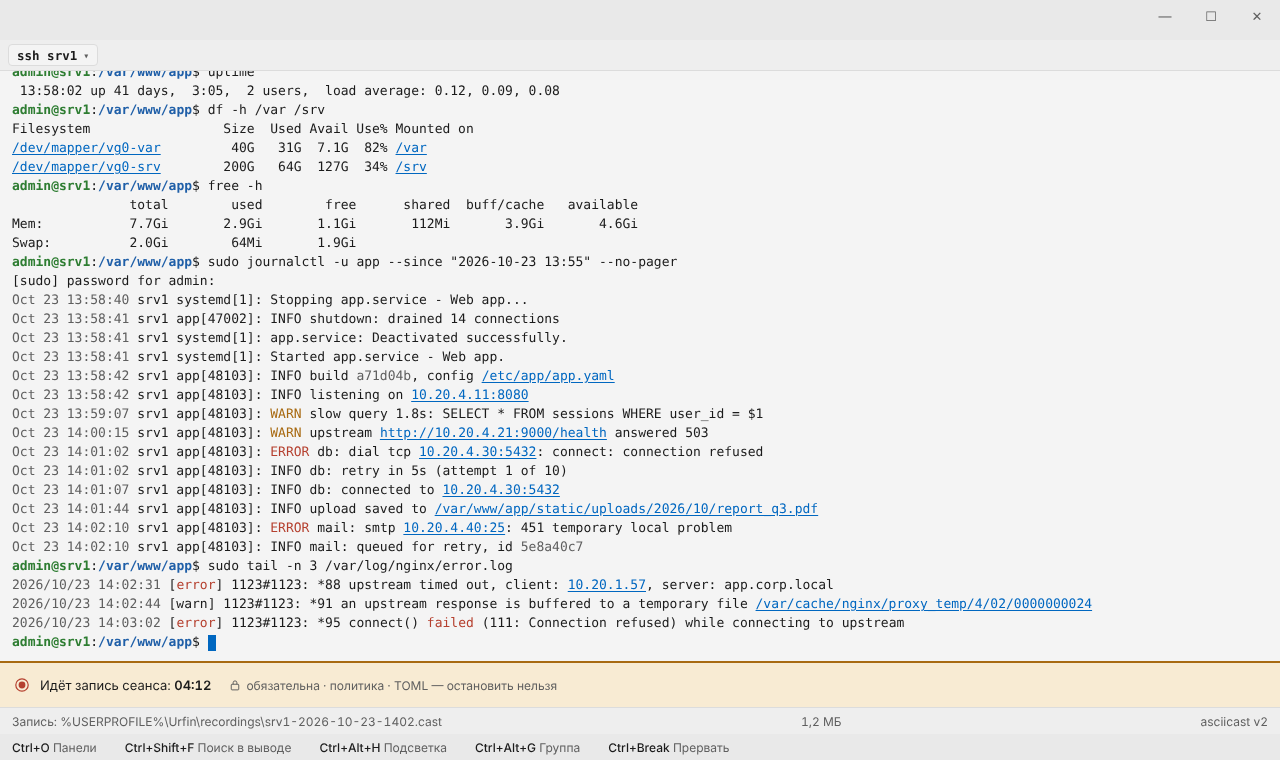
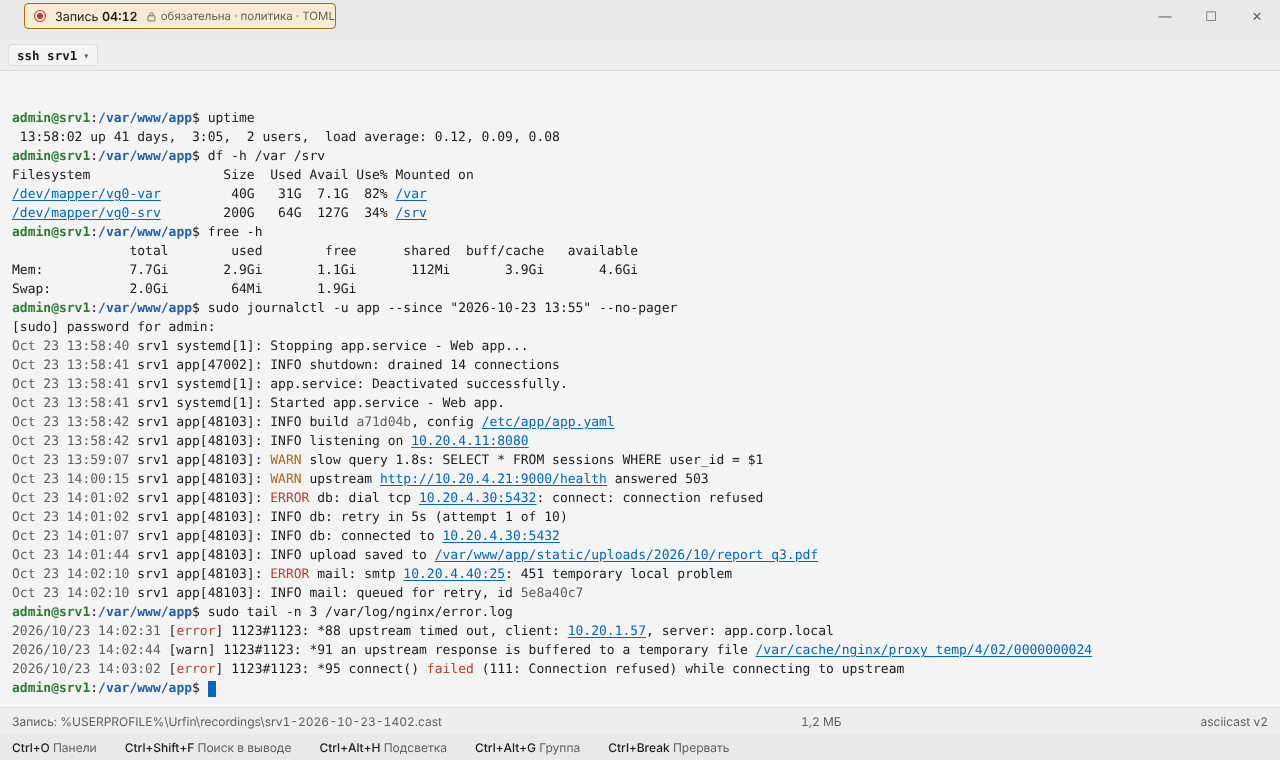
design: session state (multi-exec, recording) as chips in the empty title bar — terminal is not shifted
Claude-Session: https://claude.ai/code/session_013ZpcYnbJMYkHW4aMDDmFTq

diff --git a/docs/design/window.dc.html b/docs/design/window.dc.html
@@ -70,6 +70,16 @@ body{margin:0}
 <button type="button" aria-label="Новая вкладка" style="flex: none; height: 32px; padding: 0 12px; border: 0; background: transparent; color: {{t.s}}; font: inherit">+</button>
 </div>
 </sc-if>
+<sc-if value="{{stTitleOn}}" hint-placeholder-val="{{ false }}">
+<div role="group" aria-label="Состояние сеанса" style="align-self: flex-start; height: 32px; display: flex; align-items: center; gap: 8px; padding-left: 12px">
+<sc-if value="{{stMulti}}" hint-placeholder-val="{{ false }}">
+<span role="alert" style="{{stChip}}"><span style="display: inline-flex; color: {{t.rem}}"><svg width="14" height="14" viewBox="0 0 16 16" aria-hidden="true"><path d="M8 1.8l6.5 12H1.5z" fill="none" stroke="currentColor" stroke-width="1.2" stroke-linejoin="round"></path><path d="M8 6.2v3.6" stroke="currentColor" stroke-width="1.4"></path><circle cx="8" cy="11.8" r="0.8" fill="currentColor"></circle></svg></span><span>Ввод в 3 сеанса: <span style="font-weight: 600">srv1, srv2, srv3</span></span><button type="button" style="{{stChipBtn}}">Выйти <span style="color: {{t.s}}; font-size: 11px">Esc</span></button></span>
+</sc-if>
+<sc-if value="{{stRec}}" hint-placeholder-val="{{ false }}">
+<span role="status" aria-label="Идёт запись сеанса, 4 мин 12 с" style="{{stChip}}"><span style="display: inline-flex; color: {{t.k}}"><svg width="14" height="14" viewBox="0 0 16 16" aria-hidden="true"><circle cx="8" cy="8" r="6.2" fill="none" stroke="currentColor" stroke-width="1.2"></circle><circle cx="8" cy="8" r="3.4" fill="currentColor"></circle></svg></span><span>Запись <span style="font-weight: 600">04:12</span></span><span style="display: inline-flex; align-items: center; gap: 4px; color: {{t.s}}; font-size: 11.5px"><svg width="11" height="11" viewBox="0 0 16 16" aria-label="Задано политикой организации"><rect x="3" y="7" width="10" height="7.5" rx="1" fill="none" stroke="currentColor" stroke-width="1.3"></rect><path d="M5.5 7V5a2.5 2.5 0 0 1 5 0v2" fill="none" stroke="currentColor" stroke-width="1.3"></path></svg>обязательна · политика · TOML</span></span>
+</sc-if>
+</div>
+</sc-if>
 <div style="margin-left: auto; flex: none; align-self: flex-start; display: flex; align-items: center">
 <sc-if value="{{ctx.on}}" hint-placeholder-val="{{ false }}">
 <span style="margin-right: 12px; padding: 2px 8px; border: 1px solid {{ctx.color}}; border-radius: 4px; color: {{ctx.color}}; font-size: 12px">{{ctx.label}}</span>
@@ -109,20 +119,6 @@ body{margin:0}
 <sc-for list="{{stLines}}" as="ln" hint-placeholder-count="20"><div style="{{ln.st}}"><sc-for list="{{ln.g}}" as="sg" hint-placeholder-count="3"><span style="{{sg.s}}">{{sg.x}}</span></sc-for></div></sc-for>
 </div>
 </div>
-<sc-if value="{{stMulti}}" hint-placeholder-val="{{ false }}">
-<div role="alert" style="{{stWarn}}">
-<span style="display: inline-flex; color: {{t.rem}}"><svg width="16" height="16" viewBox="0 0 16 16" aria-hidden="true"><path d="M8 1.8l6.5 12H1.5z" fill="none" stroke="currentColor" stroke-width="1.2" stroke-linejoin="round"></path><path d="M8 6.2v3.6" stroke="currentColor" stroke-width="1.4"></path><circle cx="8" cy="11.8" r="0.8" fill="currentColor"></circle></svg></span>
-<span>Ввод в 3 сеанса: <span style="font-weight: 600">srv1, srv2, srv3</span></span>
-<button type="button" style="margin-left: 8px; {{btn}}">Выйти из группы <span style="font-size: 11px; color: {{t.s}}">Esc</span></button>
-</div>
-</sc-if>
-<sc-if value="{{stRec}}" hint-placeholder-val="{{ false }}">
-<div role="status" aria-label="Идёт запись сеанса, 4 мин 12 с" style="{{stWarn}}">
-<span style="display: inline-flex; color: {{t.k}}"><svg width="16" height="16" viewBox="0 0 16 16" aria-hidden="true"><circle cx="8" cy="8" r="6.2" fill="none" stroke="currentColor" stroke-width="1.2"></circle><circle cx="8" cy="8" r="3.4" fill="currentColor"></circle></svg></span>
-<span>Идёт запись сеанса: <span style="font-weight: 600">04:12</span></span>
-<span style="margin-left: 8px; display: inline-flex; align-items: center; gap: 5px; color: {{t.s}}; font-size: 12px"><svg width="12" height="12" viewBox="0 0 16 16" aria-label="Задано политикой организации"><rect x="3" y="7" width="10" height="7.5" rx="1" fill="none" stroke="currentColor" stroke-width="1.3"></rect><path d="M5.5 7V5a2.5 2.5 0 0 1 5 0v2" fill="none" stroke="currentColor" stroke-width="1.3"></path></svg>обязательна · политика · TOML — остановить нельзя</span>
-</div>
-</sc-if>
 <sc-if value="{{stPlay}}" hint-placeholder-val="{{ false }}">
 <div role="toolbar" aria-label="Проигрывание записи" style="{{stBar}}">
 <button type="button" aria-label="Воспроизвести (Пробел)" style="{{stIconBtn}}"><svg width="12" height="12" viewBox="0 0 12 12" aria-hidden="true"><path d="M2.5 1.2v9.6L10.5 6z" fill="currentColor"></path></svg></button>
@@ -2347,6 +2343,9 @@ stHeadBar: "height: 30px; flex: none; display: flex; align-items: center; gap: 1
 stShellBtn: "height: 22px; padding: 0 8px; display: flex; align-items: center; gap: 6px; border: 1px solid " + t.b + "; border-radius: 4px; background: " + t.p + "; color: " + t.t + "; font-family: " + mono + "; font-size: 12.5px; font-weight: 600",
 stRecPill: "height: 20px; box-sizing: border-box; padding: 0 8px; display: inline-flex; align-items: center; gap: 6px; border: 1px solid " + t.k + "; border-radius: 4px; background: " + t.p + "; color: " + t.t + "; font-family: " + mono + "; font-size: 12px",
 stRecPol: "display: inline-flex; align-items: center; gap: 5px; color: " + t.s + "; font-size: 12px; white-space: nowrap",
+stChip: "height: 26px; box-sizing: border-box; display: inline-flex; align-items: center; gap: 8px; padding: 0 0 0 8px; border: 1px solid " + t.rem + "; border-radius: 4px; background: " + t.wbg + "; color: " + t.t + "; font-size: 12.5px; white-space: nowrap",
+stChipBtn: "height: 24px; margin-left: 2px; padding: 0 8px; border: 0; border-left: 1px solid " + t.rem + "; background: transparent; color: " + t.t + "; font: inherit; font-size: 12px",
+stTitleOn: screen === "sshmulti" || screen === "sshrec",
 stWarn: "flex: none; height: 46px; box-sizing: border-box; display: flex; align-items: center; gap: 10px; padding: 0 14px; background: " + t.wbg + "; border-top: 2px solid " + t.rem + "; font-size: 13px",
 stSessList: "width: 200px; flex: none; display: flex; flex-direction: column; gap: 2px; padding: 8px 6px; box-sizing: border-box; border-right: 1px solid " + t.b + "; background: " + t.h + "; font-size: 13px",
 stOut: "flex: 1; min-width: 0; padding: 8px 12px; box-sizing: border-box; display: flex; flex-direction: column; justify-content: flex-end; overflow: hidden; font-family: " + mono + "; font-size: 13px; color: " + t.t,

diff --git a/docs/design/DESIGN.md b/docs/design/DESIGN.md
@@ -11,7 +11,7 @@
 - Без модальных окон: всё, что спрашивает, — **встроенная строка внизу**, она **накрывает** нижнюю часть панелей (список не перестраивается; если курсор оказался под строкой — список прокручивается так, чтобы курсор был виден). Исключение — job-бар: живёт долго, поэтому **занимает место** над командной строкой и сдвигает панели.
 - **Одна информация — одно место** (№61): имя файла — во вкладке; путь — в заголовке экрана/панели; размер, кодировка, переводы строк, тип — в статус-строке; переключатели режимов — в заголовке экрана; клавиши встроенной строки — подписями на её кнопках и **не** повторяются в keybar (keybar в это время показывает только дополнительные клавиши: Tab, F3 и т. п.).
 - **Автодополнение — во всех полях ввода** (№70): пути, маски, имена, команды, поиск; «мешочек» от поля, правила и клавиши — как в командной строке (`screen-cmdcomplete.png`); Alt+↓ — история поля. **История — источник подсказок везде, где Урфин её хранит** (хосты, пути, маски, имена, поиск, команды): в списке вариантов — значок часов и «история · когда»; сырой ввод SSH-терминала — история самой оболочки, не Урфина.
-- **Полоса состояния сеанса** (мультивыполнение, запись; на утверждении): внизу, над статусом; высота 46, `warning_bg`, черта 2 `context_remote` сверху, значок 16, текст 13, действие или замок политики — сразу за текстом; несколько состояний — полосы друг над другом.
+- **Состояние сеанса терминала** (мультивыполнение, запись; на утверждении): чипы в пустом заголовке окна слева, рядом с местом для меток контекста (как «Администратор»): высота 26, `warning_bg`, рамка `context_remote`, значок 14, текст 12,5, действие (Выйти Esc) — в чипе через разделитель, замок политики — серым; терминал не сдвигается. В режиме «панель + терминал» те же чипы — в шапке терминала рядом с «ssh srv1 ▾».
 - **Keybar показывает все сочетания экрана** (№88): если на экране работают сочетания с модификаторами (Ctrl+Alt+H и т. п.), они выводятся в keybar; заблокированное политикой — не выводится.
 - **Адрес сервера** (№87): везде `sftp://<профиль>/путь`; полный `user@host` — в подсказке пути и строке состояния.
 - **Всплывающие объекты — с тенью** (№65): «мешочек» целиком (корешок + список), контекстное меню, плашки — тень `shadow` (смещение 8, размытие 16 + 1/3); без тени они сливаются с панелью. Есть от чего — «мешочек» с корешком из самого якоря (ячейка заголовка, путь, кнопка); нечем привязать — плашка без корешка у места вызова.
@@ -120,8 +120,8 @@
 | `screen-sftplost.png` | Связь потеряна: строка `warning_bg` с отсчётом переподключения (попытка N из M), «Переподключить сейчас» / «Отключиться»; содержимое панели приглушено, не исчезает | F-03 |
 | `screen-sftpsync.png` | Сравнение локальной папки и сервера: стрелки направления у строк, итог снизу «Синхронизировать: → N файлов · размер», «Удалять лишнее на сервере» выключено | F-03 |
 | `screen-sshpair.png` | Панель + терминал: справа сверху панель сервера, под ней терминал (шапка с «ssh srv1 ▾»); строки ввода Урфина нет — ввод сырой (S6 §3); подсветка вывода: успех `added`, ошибка `danger`, WARN `context_remote`, пути/IP/URL — подчёркнуты `accent`, даты/хэши `secondary`; цвета самой программы не трогаются | F-03 |
-| `screen-sshmulti.png` | Мультивыполнение: полоса `warning_bg` снизу, над статусом (№63), черта сверху — «Ввод в N сеанса: …» + «Выйти из группы Esc»; слева список сеансов с флажками; вывод — блоками по сеансам, «код N» (не 0 — `danger`); первая команда подтверждается | F-03 |
-| `screen-sshrec.png` | Запись сеанса: полоса состояния внизу (как у мультивыполнения) — значок записи `danger`, «Идёт запись сеанса: мм:сс», при обязательной — замок «обязательна · политика · TOML — остановить нельзя», иначе кнопка «Остановить Ctrl+Alt+R»; путь .cast — в статусе | F-03 |
+| `screen-sshmulti.png` | Мультивыполнение: чип в заголовке окна «⚠ Ввод в N сеанса: … | Выйти Esc» (терминал не сдвигается); слева список сеансов с флажками; вывод — блоками по сеансам, «код N» (не 0 — `danger`); первая команда подтверждается | F-03 |
+| `screen-sshrec.png` | Запись сеанса: чип в заголовке окна (как у мультивыполнения) — значок записи `danger`, «Запись мм:сс», при обязательной — замок «обязательна · политика · TOML», иначе в чипе «Остановить Ctrl+Alt+R»; путь .cast — в статусе | F-03 |
 | `screen-sshrecview.png` | Просмотр записи (F3, asciicast v2): как просмотрщик — Запись / Текст / Hex; снизу ▶, время, шкала с метками совпадений, скорость 1×/2×/4×, поиск с историей и «N из M» | F-03 |
 | `screen-termhl.png` | Подсветка вывода в локальном терминале (pwsh): те же правила, что у SSH; вкл./выкл. — Ctrl+Alt+H, статус «Подсветка вывода: вкл.» | F-03 |
 | `screen-settings-ssh.png` | Раздел «SSH»: вход (агент: авто / OpenSSH / Pageant), пароли (кэш — замок GPO, менеджер паролей и команда с подстановками), сеансы (переподключение, keep-alive, запись — замок TOML, папка, мультивыполнение), подсветка вывода и её правила-чипы | F-03 |
